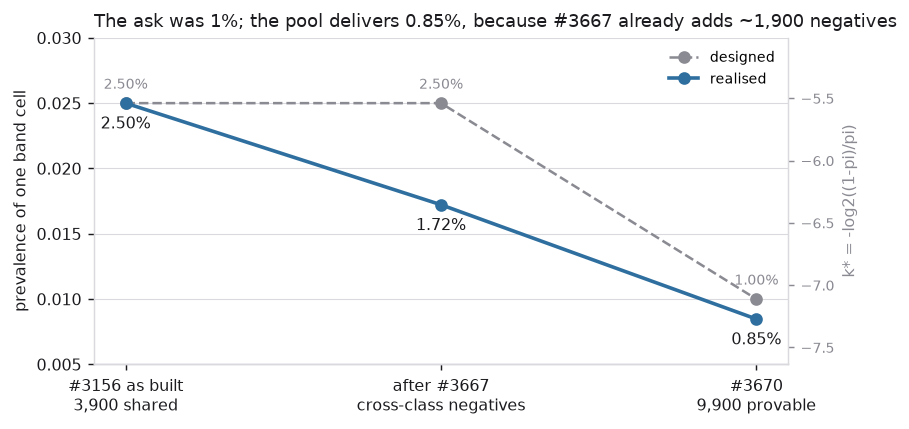
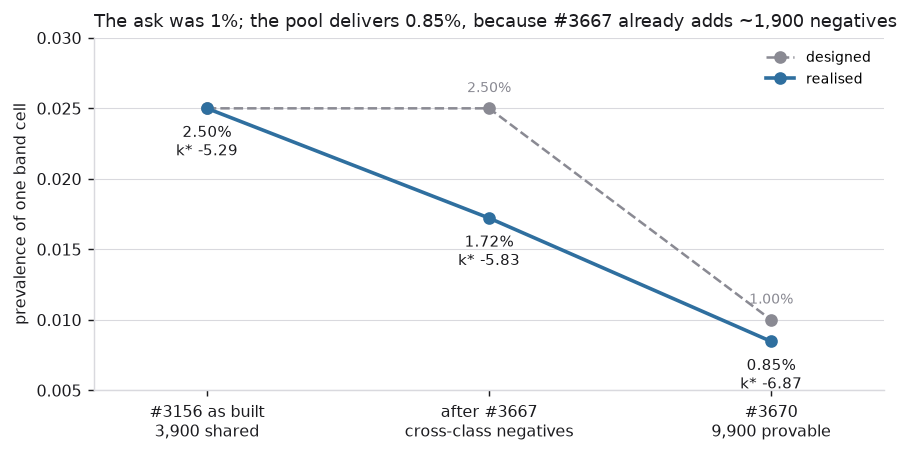
figures_3670: the hatch note goes under the plot, not under the title (#3670)
Claude-Session: https://claude.ai/code/session_01FAnc7gMSFh43SCLGBM3zCv

diff --git a/scripts/experiments/pile/figures_3670.py b/scripts/experiments/pile/figures_3670.py
@@ -144,14 +144,6 @@ def fig_distortion(shortcut: dict, path: Path) -> None:
         ax.text(right + 0.018, y, f"{v:.2f}x", va="center", fontsize=9, color=INK)
     ax.axvline(1.0, color=INK, lw=1.0)
     ax.text(1.0, len(rows) - 0.35, " no distortion", fontsize=8, color=MUTED, va="bottom")
-    ax.text(
-        1.30,
-        -0.75,
-        "solid = reverse arm (independent of the contamination rate)   hatched = forward minus predicted contamination",
-        fontsize=7.5,
-        color=MUTED,
-        ha="center",
-    )
     # The effect that justified the last rebuild, for scale.
     ax.axvline(1.88, color=MUTED, lw=1.0, ls=":")
     ax.text(1.88, len(rows) - 0.35, " #3667: 1.88x", fontsize=8, color=MUTED, va="bottom", ha="left")
@@ -163,6 +155,17 @@ def fig_distortion(shortcut: dict, path: Path) -> None:
     ax.grid(axis="x", color=GRID, lw=0.6)
     _frame(ax)
     ax.set_title("The two distortions overlap; the bar chart is not the argument", fontsize=10.5, color=INK, loc="left")
+    # Figure coordinates, below the plot. This axis is inverted, so a note
+    # placed in axes coordinates for "the bottom" lands under the title instead.
+    fig.text(
+        0.5,
+        -0.02,
+        "solid = reverse arm (independent of the contamination rate)      "
+        "hatched = forward minus predicted contamination",
+        fontsize=7.5,
+        color=MUTED,
+        ha="center",
+    )
     fig.tight_layout()
     fig.savefig(path, bbox_inches="tight")
     plt.close(fig)
